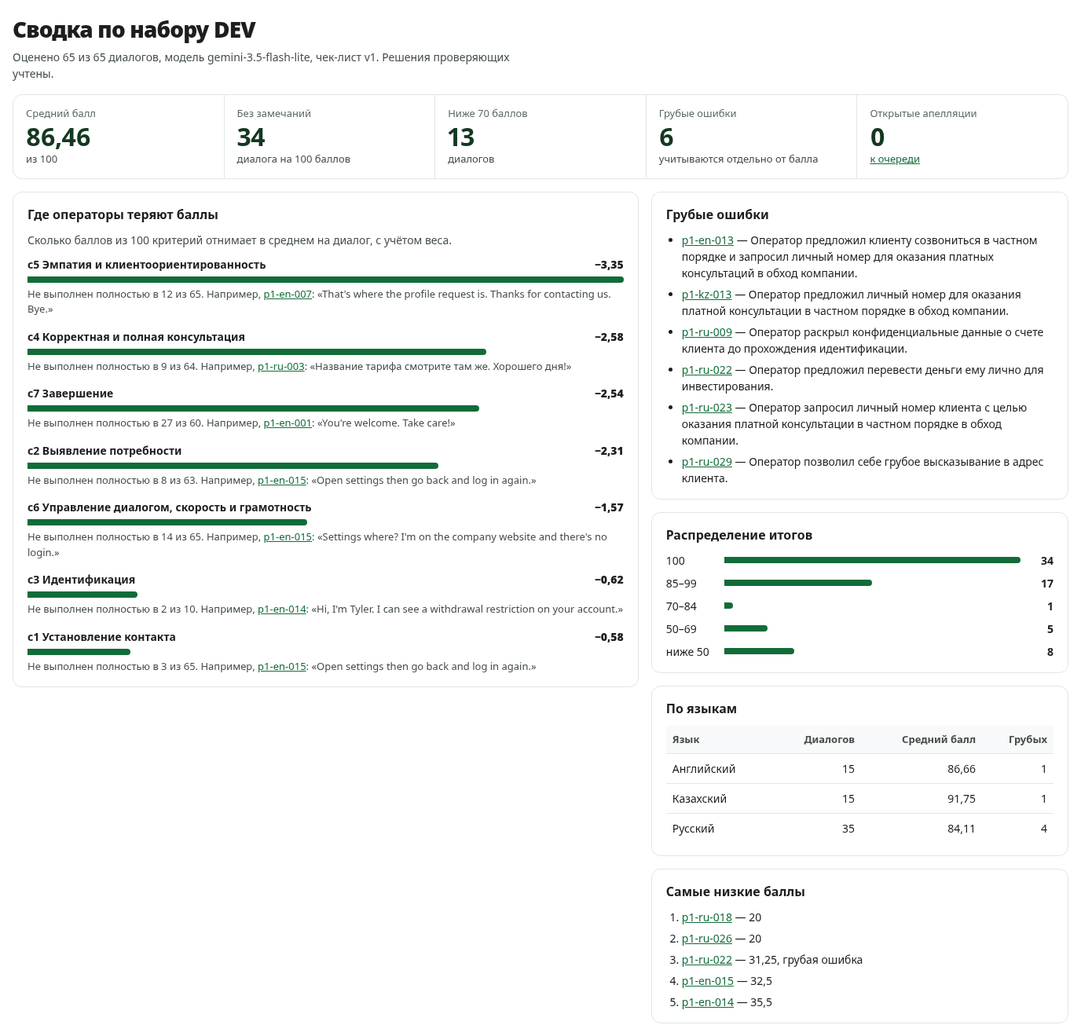
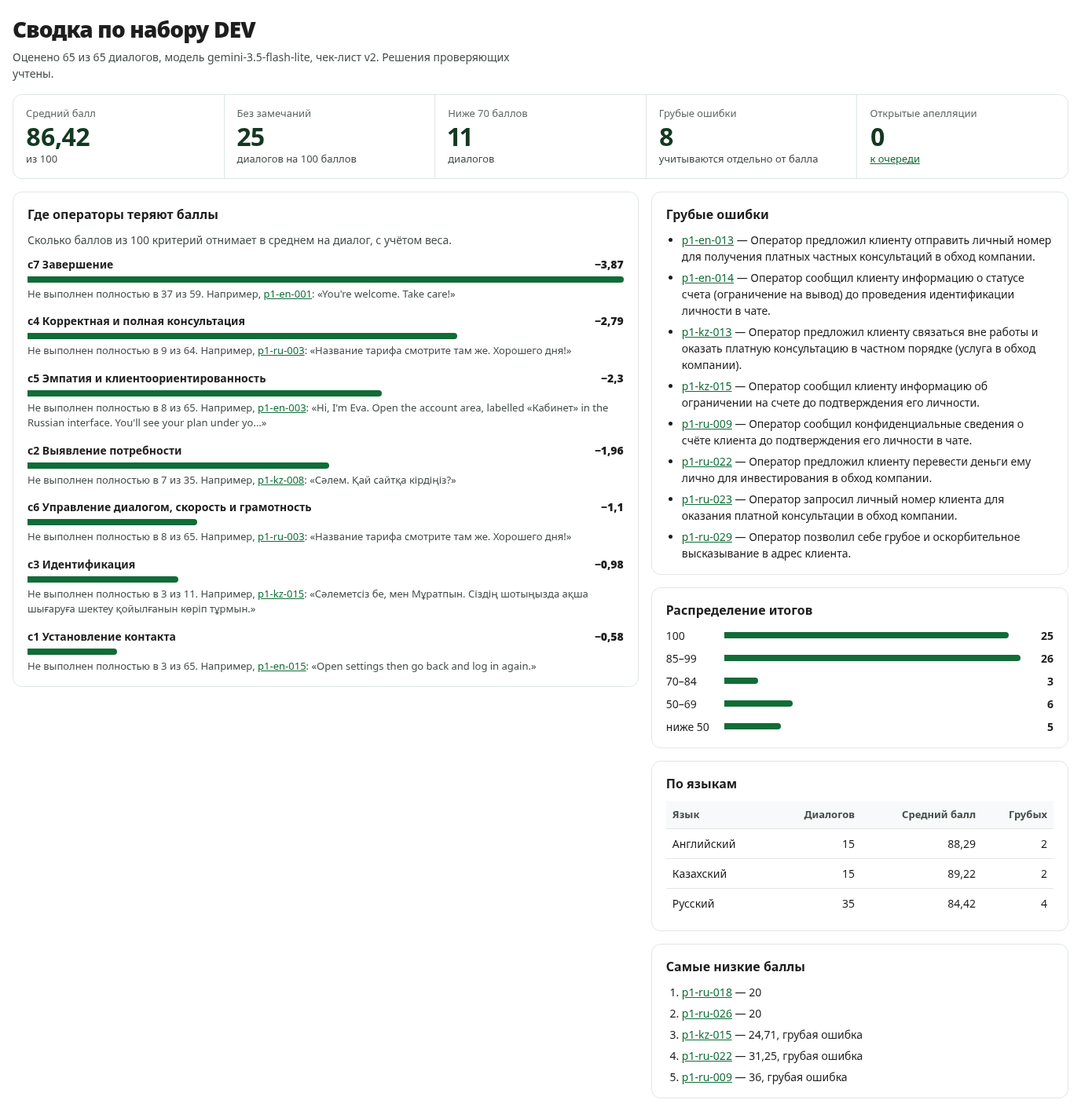
Точность: 95% доверительный интервал; по умолчанию сданная версия v2
Бутстрэп по диалогам (2000 выборок, фиксированное зерно) для общего
совпадения и «без спорных»: v2 84,6% (80,6–88,3), v1 78,5% (74,8–81,5);
парная разница +6,2 п. п. (2,5–9,8). «Обзор», «Точность» и npm run accuracy
по умолчанию берут последнюю версию чек-листа, которой оценивали, — сейчас
v2; v1 — переключателем. README и скриншот сводки — по v2.

diff --git a/server/accuracy.js b/server/accuracy.js
@@ -2,6 +2,7 @@
 // Сравнивается исходный ответ модели, до апелляций: апелляции — это уже работа человека.
 import { round2, computeTotal } from './scoring.js';
 import { answersFrom } from './results.js';
+import { latestEvaluatedVersion } from './versions.js';
 
 /**
  * Эталон по каждому критерию из разметок одного диалога.
@@ -37,6 +38,42 @@ function cohenKappa(pairs) {
   for (const [value, k] of human) expected += (k / n) * ((model.get(value) ?? 0) / n);
   if (expected === 1) return observed === 1 ? 1 : 0;
   return round2((observed - expected) / (1 - expected));
+}
+
+// Детерминированный генератор: интервал не прыгает от запуска к запуску.
+function mulberry32(seed) {
+  let a = seed >>> 0;
+  return () => {
+    a = (a + 0x6d2b79f5) >>> 0;
+    let t = a;
+    t = Math.imul(t ^ (t >>> 15), t | 1);
+    t ^= t + Math.imul(t ^ (t >>> 7), t | 61);
+    return ((t ^ (t >>> 14)) >>> 0) / 4294967296;
+  };
+}
+
+/**
+ * 95% доверительный интервал доли совпадений: бутстрэп по диалогам, а не по ответам —
+ * восемь ответов одного диалога связаны между собой.
+ */
+export function bootstrapCi(perConversation, { iterations = 2000, seed = 20261108 } = {}) {
+  const items = perConversation.filter((c) => c.cells > 0);
+  if (!items.length) return null;
+  const random = mulberry32(seed);
+  const rates = [];
+  for (let i = 0; i < iterations; i += 1) {
+    let cells = 0;
+    let matched = 0;
+    for (let k = 0; k < items.length; k += 1) {
+      const pick = items[Math.floor(random() * items.length)];
+      cells += pick.cells;
+      matched += pick.matched;
+    }
+    rates.push(matched / cells);
+  }
+  rates.sort((a, b) => a - b);
+  const at = (q) => Number(rates[Math.min(rates.length - 1, Math.floor(q * rates.length))].toFixed(4));
+  return [at(0.025), at(0.975)];
 }
 
 /** Согласие людей между собой там, где диалог разметили двое и больше. */
@@ -80,6 +117,7 @@ export function computeAccuracy({ checklist, conversations, labels, modelAnswers
   const mismatches = [];
   const deviations = [];
   const pairs = [];
+  const perConversation = [];
   let compared = 0;
 
   for (const conversation of conversations) {
@@ -89,6 +127,8 @@ export function computeAccuracy({ checklist, conversations, labels, modelAnswers
     if (!model || !entries) continue;
     compared += 1;
     const gold = consensus(entries, checklist);
+    const own = { all: { cells: 0, matched: 0 }, clear: { cells: 0, matched: 0 } };
+    perConversation.push(own);
     const language = byLanguage.get(conversation.language) ?? { language: conversation.language, ...bucket() };
     byLanguage.set(conversation.language, language);
 
@@ -99,6 +139,12 @@ export function computeAccuracy({ checklist, conversations, labels, modelAnswers
       const matched = answer !== null && cell.values.includes(answer);
       for (const target of [overall, byCriterion.get(criterion.id), language, bySplit[tuning.has(id) ? 'tuning' : 'holdout']]) add(target, matched);
       if (!cell.disputed) add(clear, matched);
+      own.all.cells += 1;
+      own.all.matched += matched ? 1 : 0;
+      if (!cell.disputed) {
+        own.clear.cells += 1;
+        own.clear.matched += matched ? 1 : 0;
+      }
       pairs.push([matched ? answer : cell.values[0], answer ?? '—']);
       if (!matched) mismatches.push({ conversation_id: id, criterion_id: criterion.id, human: cell.values, model: answer, disputed: cell.disputed });
       if (criterion.type === 'flag') {
@@ -125,8 +171,8 @@ export function computeAccuracy({ checklist, conversations, labels, modelAnswers
       evaluated: conversations.filter((c) => modelAnswers[c.conversation_id]).length,
       compared,
     },
-    overall,
-    clear,
+    overall: { ...overall, ci: bootstrapCi(perConversation.map((c) => c.all)) },
+    clear: { ...clear, ci: bootstrapCi(perConversation.map((c) => c.clear)) },
     kappa: cohenKappa(pairs),
     by_criterion: [...byCriterion.values()].filter((c) => c.cells > 0),
     by_language: [...byLanguage.values()].filter((l) => l.cells > 0),
@@ -143,7 +189,7 @@ export function computeAccuracy({ checklist, conversations, labels, modelAnswers
  * Оценки заглушкой — не модель: без allowMock они не в счёт.
  */
 export function collectAccuracy(db, { versionId, groupId, labels, tuningIds = [], allowMock = false }) {
-  const version = versionId ? db.checklists.get(versionId) : db.checklists.latest();
+  const version = versionId ? db.checklists.get(versionId) : latestEvaluatedVersion(db, groupId);
   if (!version) throw new Error(`Версия чек-листа ${versionId} не найдена`);
   const conversations = db.conversations.list(groupId || undefined);
   const modelAnswers = {};

diff --git a/web/views/accuracy.js b/web/views/accuracy.js
@@ -5,6 +5,7 @@ import { labelPrefs, nextUnlabeled } from './label.js';
 
 const LANGUAGES = [['', 'все'], ['RU', 'RU'], ['KZ', 'KZ'], ['EN', 'EN']];
 const pct = (rate) => (rate === null || rate === undefined ? '—' : `${(rate * 100).toLocaleString('ru-RU', { maximumFractionDigits: 1 })}%`);
+const ciText = (b) => (b.ci ? `, 95% ДИ ${pct(b.ci[0])}–${pct(b.ci[1])}` : '');
 const num = (n) => (n === null || n === undefined ? '—' : n.toLocaleString('ru-RU', { maximumFractionDigits: 2 }));
 
 const select = (name, label, options, current) => html`<label class="field field--inline">${label}
@@ -48,8 +49,8 @@ function results(report, criteria) {
   const { gross, total_deviation: deviation, by_split: split } = report;
   return html`
     <dl class="acc-stats">
-      <div><dt>Совпадение с разметкой</dt><dd>${pct(report.overall.rate)}</dd><p>${report.overall.matched} из ${report.overall.cells} ответов</p></div>
-      <div><dt>Без спорных ответов</dt><dd>${pct(report.clear.rate)}</dd><p>${report.clear.matched} из ${report.clear.cells}</p></div>
+      <div><dt>Совпадение с разметкой</dt><dd>${pct(report.overall.rate)}</dd><p>${report.overall.matched} из ${report.overall.cells} ответов${ciText(report.overall)}</p></div>
+      <div><dt>Без спорных ответов</dt><dd>${pct(report.clear.rate)}</dd><p>${report.clear.matched} из ${report.clear.cells}${ciText(report.clear)}</p></div>
       <div><dt>Грубые ошибки</dt><dd>${gross.found} из ${gross.human}</dd><p>ложных срабатываний: ${gross.false_alarms}</p></div>
       <div><dt>Отклонение итога</dt><dd>±${num(deviation.mean)}</dd><p>в среднем, максимум ${num(deviation.max)}</p></div>
       <div><dt>κ Коэна</dt><dd>${num(report.kappa)}</dd><p>согласие с поправкой на случайность</p></div>
@@ -95,12 +96,12 @@ export async function render(container, state) {
     [versions, groups] = await Promise.all([api.checklists(), api.groups()]);
     const group = groups.some((g) => g.group_id === queue.group) ? queue.group
       : (groups.find((g) => g.group_id === 'DEV') ?? groups[0])?.group_id ?? '';
-    // По умолчанию — чек-лист организаторов: эталон размечают по нему.
-    const version = versions.some((v) => v.id === queue.version) ? queue.version : versions[0]?.id;
+    // Без выбора — последняя версия, которой оценивали: её сервер и подставит.
+    const chosen = versions.some((v) => v.id === queue.version) ? queue.version : undefined;
+    [report, { labels }, conversations] = await Promise.all([api.accuracy({ group, version: chosen }), api.labels(), api.conversations({ group })]);
+    const version = report.checklist_version_id;
     Object.assign(queue, { group, version });
-    [report, { labels }, conversations, checklist] = await Promise.all([
-      api.accuracy({ group, version }), api.labels(), api.conversations({ group }), api.checklist(version),
-    ]);
+    checklist = await api.checklist(version);
   } catch (error) {
     if (route !== state.route) return;
     const root = mountView(container, errorPanel(error));

diff --git a/test/accuracy.test.js b/test/accuracy.test.js
@@ -152,3 +152,24 @@ test('разметка сохраняется в файл размечающег
   assert.deepEqual(mine.criteria.c4, { value: '15', note: 'частично' });
   assert.ok(mine.labeled_at);
 });
+
+test('доверительный интервал: бутстрэп по диалогам, детерминирован и содержит точечную оценку', () => {
+  const many = Array.from({ length: 30 }, (_, i) => ({ conversation_id: `d${i}`, language: 'RU' }));
+  const labels = many.map((c) => label(c.conversation_id, 'dima', perfect));
+  // В каждом третьем диалоге модель ошиблась в одном критерии.
+  const modelAnswers = Object.fromEntries(many.map((c, i) => [c.conversation_id, i % 3 === 0 ? { ...perfect, c4: '15' } : perfect]));
+  const a = computeAccuracy({ checklist, conversations: many, labels, modelAnswers });
+  const b = computeAccuracy({ checklist, conversations: many, labels, modelAnswers });
+  assert.deepEqual(a.overall.ci, b.overall.ci);
+  const [low, high] = a.overall.ci;
+  assert.ok(low <= a.overall.rate && a.overall.rate <= high, `${low} ≤ ${a.overall.rate} ≤ ${high}`);
+  assert.ok(low > 0.9 && high <= 1 && high > low, `${low}–${high}`);
+  assert.equal(a.clear.ci.length, 2);
+});
+
+test('доверительный интервал при полном совпадении — точка, без сравнения — нет интервала', () => {
+  const full = computeAccuracy({ checklist, conversations, labels: [label('p1-ru-001', 'dima', perfect)], modelAnswers: { 'p1-ru-001': perfect } });
+  assert.deepEqual(full.overall.ci, [1, 1]);
+  const none = computeAccuracy({ checklist, conversations, labels: [], modelAnswers: {} });
+  assert.equal(none.overall.ci, null);
+});

diff --git a/server/overview.js b/server/overview.js
@@ -1,6 +1,7 @@
 // Сводка по набору для руководителя: считается по финальным оценкам (с решениями проверяющего), без ИИ.
 import { round2 } from './scoring.js';
 import { buildEvaluationView } from './results.js';
+import { latestEvaluatedVersion } from './versions.js';
 
 const BUCKETS = [
   { label: '100', test: (t) => t === 100 },
@@ -89,7 +90,7 @@ export function computeOverview({ checklist, entries }) {
 
 /** Сводка по базе: последняя завершённая оценка каждого диалога версией; заглушка не в счёт без allowMock. */
 export function collectOverview(db, { versionId, groupId, allowMock = false }) {
-  const version = versionId ? db.checklists.get(versionId) : db.checklists.list()[0];
+  const version = versionId ? db.checklists.get(versionId) : latestEvaluatedVersion(db, groupId);
   if (!version) throw new Error(`Версия чек-листа ${versionId} не найдена`);
   const entries = [];
   const models = new Set();

diff --git a/server/versions.js b/server/versions.js
@@ -1,0 +1,14 @@
+// Какую версию чек-листа показывать по умолчанию: последнюю, которой уже оценивали моделью.
+// Свежая версия из редактора без оценок не должна прятать сводку и точность.
+
+/** Последняя версия с завершёнными оценками моделью (не заглушкой) в наборе; иначе просто последняя. */
+export function latestEvaluatedVersion(db, groupId) {
+  const versions = db.checklists.list();
+  const evaluated = new Set();
+  for (const conversation of db.conversations.list(groupId || undefined)) {
+    for (const e of db.evaluations.listFor(conversation.conversation_id)) {
+      if (e.status === 'done' && e.provider !== 'mock') evaluated.add(e.checklist_version_id);
+    }
+  }
+  return [...versions].reverse().find((v) => evaluated.has(v.id)) ?? versions.at(-1) ?? null;
+}

diff --git a/README.md b/README.md
@@ -15,8 +15,8 @@
 | Что важно | Результат |
 |---|---|
 | Каждый балл с доказательством | по каждому критерию ответ, баллы, вес, объяснение и реплика; цитату сверяет код, выдуманная отправляет критерий на проверку человеком |
-| Точность | согласие со слепой разметкой всех 65 диалогов DEV независимой моделью (Claude Opus 5.5, 520 ответов): 78,5%, без спорных 81,7%, κ Коэна 0,72; грубые ошибки: 6 из 8, ложных нет. Основное расхождение — «Выявление потребности», разбор в разделе [«Точность»](#точность-слепая-ручная-разметка). Ручная разметка людей — следующий шаг |
-| Грубые ошибки | на DEV модель отметила 6 диалогов из 65; в p1-ru-009 оператор сообщил об ограничении по счёту до идентификации клиента |
+| Точность | согласие со слепой разметкой всех 65 диалогов DEV независимой моделью (Claude Opus 5.5, 520 ответов): **84,6%** (95% ДИ 80,6–88,3%), без спорных 88,1%, κ Коэна 0,80; грубые ошибки 8 из 8, ложных нет. Уточнённый чек-лист v2 поднял согласие с 78,5% на 6,2 п. п. (95% ДИ 2,5–9,8). Ручная проверка людьми — следующий шаг |
+| Грубые ошибки | на DEV модель отметила 8 диалогов из 65; в p1-ru-009 оператор сообщил об ограничении по счёту до идентификации клиента, то же нашлось на английском и казахском |
 | Стоимость и время | $0 на бесплатном тарифе Gemini 3.5 Flash-Lite (500 запросов в день на ключ), 9–14 с на диалог |
 | Весь DEV оценён | 65 диалогов: 60 чатов RU/KZ/EN и 5 звонков; выгрузка `results.json` проверяется кодом по формату организаторов |
 | Чек-лист без программиста | правка или замена критерия в редакторе сохраняется новой неизменяемой версией, оценки привязаны к своей |
@@ -36,13 +36,14 @@ npm start              # http://127.0.0.1:3000
 
 1. «Диалоги» → «Загрузить из API» с набором DEV → отметить несколько диалогов → «Оценить выбранные».
    Около 10 секунд на диалог.
-2. Открыть `p1-ru-009`. В нашем прогоне итог 46 из 100 и отметка о грубой ошибке. Клик по цитате
+2. Открыть `p1-ru-009`. В нашем прогоне по v2 итог 36 из 100 и отметка о грубой ошибке. Клик по цитате
    у «c8 Грубые ошибки» подсвечивает реплику m11: оператор сообщил об ограничении на счёте до
    идентификации. У «c3 Идентификация» ссылка «Где проверить пропуск действия» ведёт туда же.
 3. «Оспорить» у критерия → роль «Проверяющий» → «Апелляции» → «Изменить» с причиной. В карточке
    появятся три колонки «Исходная → Решение → Финальная», новый итог и «До апелляций».
 4. «Чек-листы» → поменять вес или заменить критерий → «Сохранить как новую версию» → «Применить и оценить».
-5. «Точность» → совпадение модели с ручной разметкой по критериям и языкам; расхождения ведут в карточку.
+5. «Точность» → совпадение модели со слепой разметкой по критериям и языкам, с 95% доверительным интервалом;
+   переключите «Чек-лист» на v1 и обратно на v2 — видно, что дало уточнение подсказок. Расхождения ведут в карточку.
 6. `npm run export -- DEV dev --team "Команда"` → `results/dev/results.json`, формат проверяется кодом.
 7. «Диалоги» → «Вставить диалог»: свой пример текстом, по строке на реплику «00:12 оператор: текст».
    Роли и язык (RU, KZ, EN) распознаются, диалог попадает в набор OWN и сразу уходит на оценку.
@@ -51,7 +52,7 @@ npm start              # http://127.0.0.1:3000
 |---|---|
 | ![Список диалогов на русском с итогами и отметкой о грубой ошибке](docs/media/list.png) | ![Решённая апелляция по критерию c7: «Да» изменено на «Нет» с причиной](docs/media/appeal.png) |
 
-![Сводка по набору DEV на «Обзоре»: средний балл 86,46, 34 диалога без замечаний, 6 грубых ошибок, где операторы теряют баллы с примерами, распределение итогов и языки](docs/media/overview.png)
+![Сводка по набору DEV на «Обзоре» по чек-листу v2: средний балл 86,42, 8 грубых ошибок, где операторы теряют баллы с примерами, распределение итогов и языки](docs/media/overview.png)
 
 ![Редактор чек-листа: секции, критерии с кодом выгрузки, типом и весом; сохранение новой версией и переоценка](docs/media/checklist.png)
 
@@ -178,7 +179,31 @@ ANTHROPIC_MODEL=claude-opus-5-5
 
 Результат виден в разделе «Точность» и командой `npm run accuracy` в виде таблиц для этого README.
 
-### Результат 2026-11-08: разметка независимой моделью
+### Результат 2026-11-08: чек-лист v2
+
+В v2 те же критерии, веса и коды, что в v1, уточнены только подсказки модели — по разбору расхождений ниже
+и по примеру организаторов из приложения к гайду:
+
+- c2 — N/A, когда клиент сразу ясно изложил вопрос и уточнять было нечего; «Да» — только за уточняющий вопрос;
+- c7 — вежливая формула («Пожалуйста, хорошего дня») не заменяет итог или предложение помощи;
+- c8 — сведения о счёте до подтверждения личности считаются раскрытием на любом языке.
+
+| | v1 | v2 |
+| --- | ---: | ---: |
+| Все 520 ответов | 78,5% (95% ДИ 74,8–81,5) | **84,6%** (95% ДИ 80,6–88,3) |
+| Без спорных | 81,7% | 88,1% (95% ДИ 84,5–91,2) |
+| κ Коэна | 0,72 | 0,80 |
+| Грубые ошибки | 6 из 8 | 8 из 8, ложных нет |
+| c2 / c7 | 27,7% / 66,2% | 69,2% / 81,5% |
+
+Разница v2 − v1 на тех же диалогах: +6,2 п. п., 95% ДИ 2,5–9,8 (парный бутстрэп по диалогам); v2 лучше в 31
+диалоге, хуже в 8. Просел c5 (92,3% → 83,1%): его подсказку не меняли, модель от прогона к прогону мягче или
+строже к операторам, которые отмахнулись от клиента. Подсказки уточнялись по тем же диалогам DEV, на которых
+меряем, поэтому рост оптимистичен; опорой служит пример организаторов, а не подгонка под разметку.
+Интервалы — бутстрэп по диалогам (`server/accuracy.js`, 2000 выборок, фиксированное зерно). Сдача
+`results/dev` и `results/prod` сделана по v2.
+
+### Результат v1: разметка независимой моделью
 
 Людей на разметку всех 65 диалогов не хватило, поэтому DEV вслепую разметила другая модель — Claude Opus 5.5
 (`eval/labels/claude.json`): только по тексту диалогов и чек-листу, без ответов Gemini. Это согласие двух
@@ -223,8 +248,8 @@ c7: «Пожалуйста, хорошего дня!» Gemini засчитыва
 `results/prod/results.json` (10 контрольных чатов) в формате «JSON 1.0» из приложения к гайду.
 
 ```bash
-npm run batch -- DEV --checklist v1                  # оценить; уже оценённые пропускаются
-npm run export -- DEV dev --checklist v1             # results/dev/results.json
+npm run batch -- DEV --checklist v2                  # оценить; уже оценённые пропускаются
+npm run export -- DEV dev --checklist v2             # results/dev/results.json
 ```
 
 Название команды берётся из `TEAM_NAME` в `.env` или из `--team "…"`. Выгрузка:
@@ -250,8 +275,8 @@ npm run export -- DEV dev --checklist v1             # results/dev/results.json
 ```bash
 npm run preflight                                    # модель, ключ, DATASET_URL, команда, чек-лист, апелляции, git
 npm run fetch -- <GROUP_ID>                          # group_id сообщат организаторы
-npm run batch -- <GROUP_ID> --checklist v1           # около 10 с на диалог у gemini-3.5-flash-lite
-npm run export -- <GROUP_ID> prod --checklist v1     # results/prod/results.json, ровно 10 записей
+npm run batch -- <GROUP_ID> --checklist v2           # около 10 с на диалог у gemini-3.5-flash-lite
+npm run export -- <GROUP_ID> prod --checklist v2     # results/prod/results.json, ровно 10 записей
 git add results/prod/results.json && git commit -m "Результаты контрольного набора" && git push
 ```
 
